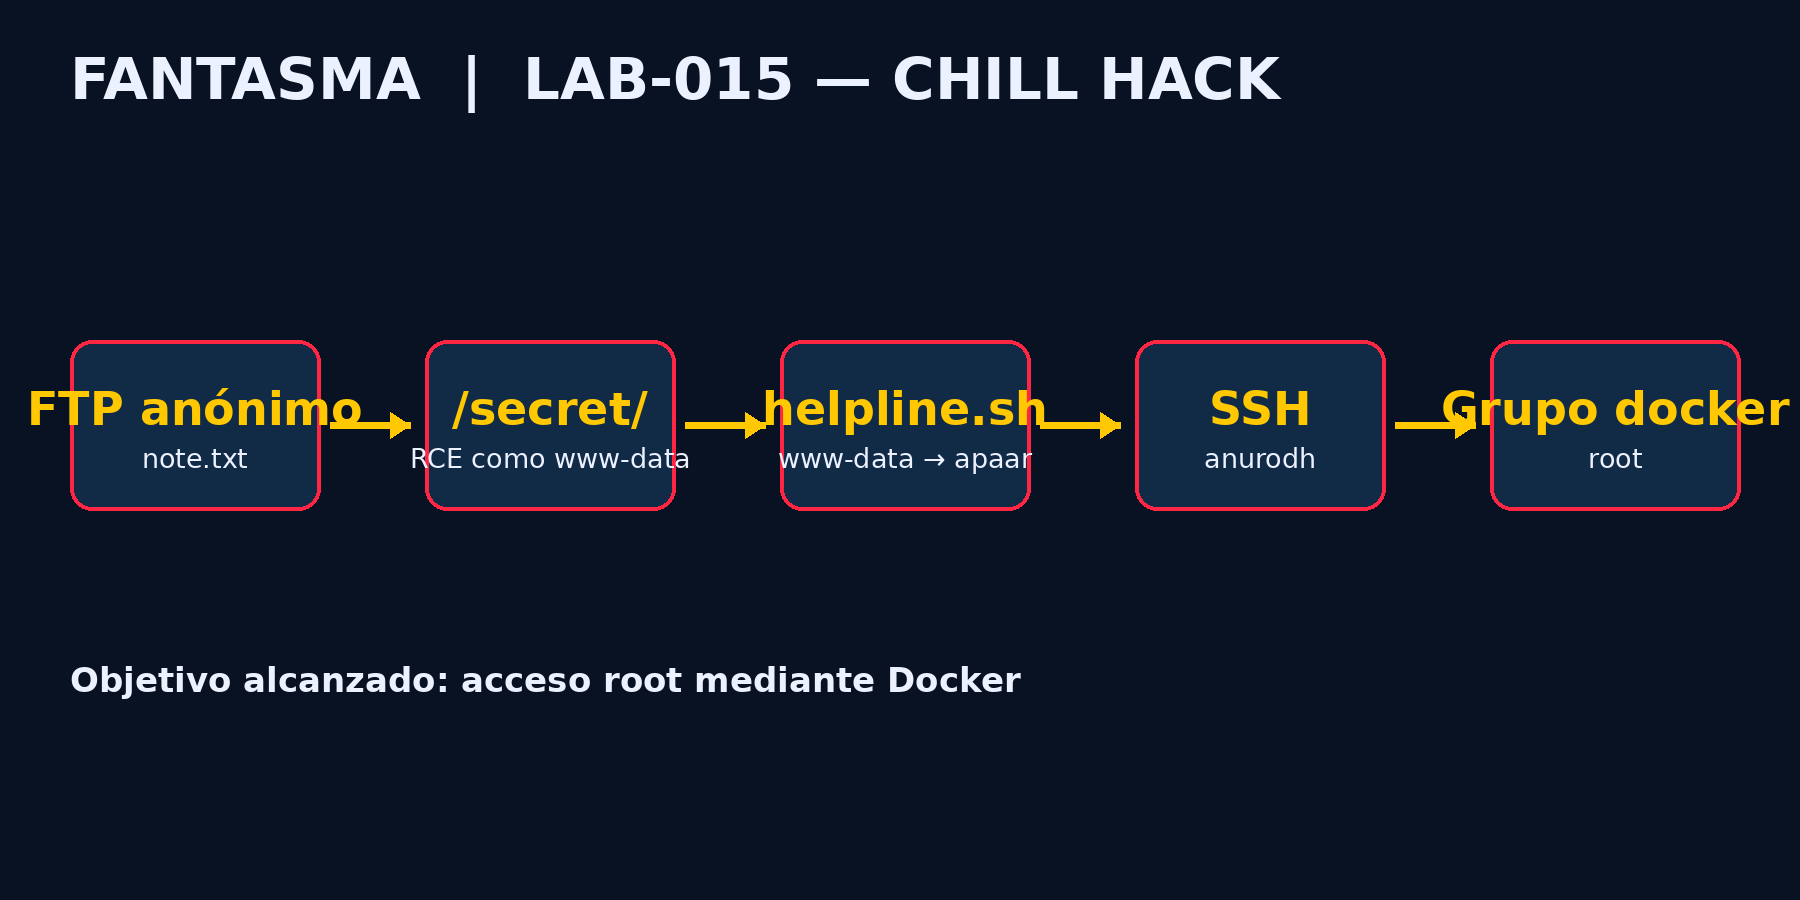
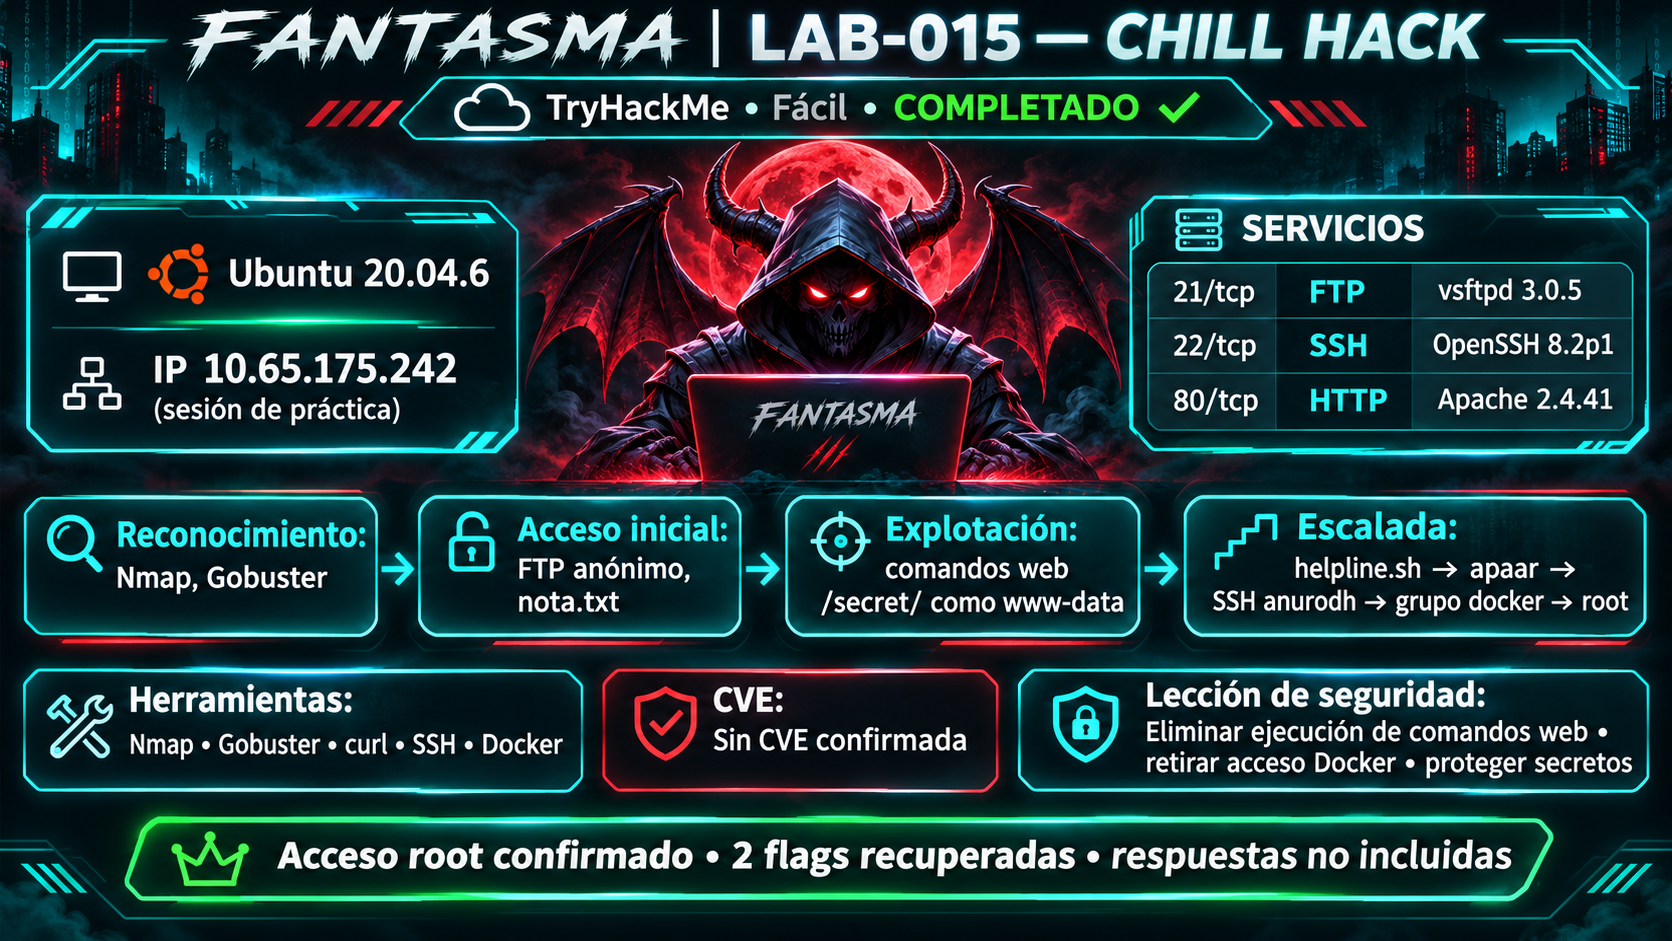
Update Chill Hack cover and report to FANTASMA protocol

diff --git a/01-Informes/Informe-Pentesting.md b/01-Informes/Informe-Pentesting.md
@@ -1,58 +1,71 @@
-# Informe de pentesting — Chill Hack
+# Informe técnico — LAB-015 Chill Hack
+
+## Identificación
+
+- Plataforma: TryHackMe
+- Dificultad: Fácil
+- Sistema operativo observado: Ubuntu 20.04.6 LTS
+- IP usada en esta sesión: `10.65.175.242`
+- Estado: acceso root y ambas banderas recuperados. No se verificó el envío de respuestas en TryHackMe.
+- CVE: no se confirmó una CVE aplicable
 
 ## Objetivo
 
-Completar la máquina Chill Hack de TryHackMe, identificar su superficie expuesta y obtener las banderas de usuario y root.
+Enumerar la superficie expuesta, obtener acceso inicial y escalar privilegios hasta root en la máquina Chill Hack.
 
 ## Reconocimiento
 
-Escaneo TCP de los 1.000 puertos más comunes contra `10.65.175.242`.
+Nmap detectó estos servicios:
 
 ```text
-21/tcp open ftp
-22/tcp open ssh
-80/tcp open http
+21/tcp open ftp vsftpd 3.0.5
+22/tcp open ssh OpenSSH 8.2p1 Ubuntu 4ubuntu0.13
+80/tcp open http Apache httpd 2.4.41 (Ubuntu)
 ```
 
-FTP permitió acceso anónimo y expuso `note.txt`. La nota menciona filtrado de cadenas introducidas en un comando. Gobuster identificó `/secret/`.
+Un escaneo posterior de los 1.000 puertos TCP más comunes confirmó esos tres puertos abiertos. FTP permitió inicio de sesión anónimo y expuso `note.txt`, cuya pista mencionaba el filtrado de cadenas introducidas en un comando.
 
-## Enumeración
+## Enumeración web
 
-La página `/secret/` recibe el parámetro `command` por POST. Se confirmó ejecución de comandos como `www-data` con `id` y `whoami`. El filtro bloquea tokens exactos como `cat`, `head`, `tail`, `ls`, `bash`, `sh`, `python`, `php`, `perl`, `rm`, `nc`, `more` y `less`.
+Gobuster encontró `/secret/`. La página contenía un formulario que enviaba el parámetro `command` mediante POST. Se comprobó la ejecución de comandos como `www-data` con `id`, `pwd` y `whoami`. El filtro de PHP compara tokens exactos contra una lista de bloqueo. Se observó que `ls` y `head` activaban el mensaje de rechazo, mientras `find` y `sed` funcionaron.
 
-La configuración de Apache reveló otro VirtualHost con `DocumentRoot /var/www/files` en el puerto 9001, inaccesible desde la red externa. En `index.php` se encontraron credenciales de MySQL para enumerar la base `webportal`.
+La exploración identificó `/home/apaar/local.txt`, el script `/home/apaar/.helpline.sh`, el código de una segunda aplicación en `/var/www/files` y credenciales MySQL en `index.php`. Se consultó la tabla `users`. Los valores de contraseña y los hashes se omiten de este informe.
+
+La configuración de Apache mostraba un VirtualHost con `DocumentRoot /var/www/files` en `127.0.0.1:9001`. Las solicitudes desde Parrot al puerto 9001 fueron rechazadas. No se considera un servicio externo accesible.
 
 ## Acceso inicial y escalada a apaar
 
-`sudo -l` como `www-data` mostró permiso sin contraseña para ejecutar `/home/apaar/.helpline.sh` como `apaar`. El script ejecuta directamente el texto introducido como mensaje. Se aprovechó con una entrada canalizada para ejecutar comandos como `apaar` y leer `/home/apaar/local.txt`.
+`sudo -l` como `www-data` mostró que podía ejecutar `/home/apaar/.helpline.sh` como `apaar` sin contraseña. El script lee un nombre y un mensaje, y luego ejecuta el mensaje directamente como comando. Se usó una entrada canalizada para ejecutar comandos como `apaar` y leer `local.txt`.
 
-## Acceso como anurodh y root
+## Acceso como anurodh y escalada a root
 
-Se inició sesión por SSH como `anurodh` con la contraseña recuperada durante la enumeración del laboratorio. `id` confirmó pertenencia al grupo `docker`. Se montó el sistema raíz del host dentro de un contenedor Alpine y se ejecutó `chroot` para obtener `uid=0(root)`.
+Se inició sesión por SSH como `anurodh`. `id` confirmó que la cuenta pertenecía al grupo `docker`. Se ejecutó un contenedor con el sistema raíz del host montado en `/mnt` y se usó `chroot` para obtener `uid=0(root)`.
 
 ```bash
 docker run -v /:/mnt --rm -it alpine chroot /mnt /bin/sh
 ```
 
-La bandera final se leyó desde `/root/proof.txt`.
+Se verificó `whoami` como `root` y se leyó `/root/proof.txt`. Los valores de ambas banderas se omiten. No se afirma que TryHackMe haya aceptado las respuestas.
 
 ## Vulnerabilidades verificadas
 
-- Ejecución de comandos del sistema desde una entrada web sin validación segura.
-- Lista de bloqueo de comandos que puede eludirse y no sustituye el uso de una lista permitida.
-- Script ejecutable con privilegios de otro usuario que ejecuta entrada controlada por el usuario.
-- Cuenta `anurodh` incluida en el grupo `docker`, equivalente a privilegios de root en esta configuración.
-- Credenciales de base de datos almacenadas en código fuente.
+- Ejecución de comandos del sistema desde un formulario web mediante `shell_exec`.
+- Filtro basado en lista de bloqueo de tokens exactos, insuficiente como control de seguridad.
+- Script ejecutado mediante sudo que ejecuta texto controlado por quien lo invoca.
+- Acceso de `anurodh` al grupo Docker, que permitió montar y cambiar la raíz del sistema anfitrión.
+- Credenciales de MySQL embebidas en el código PHP.
+
+No se asigna CVE porque no se verificó una vulnerabilidad con identificador CVE aplicable a esta cadena.
 
 ## Mitigaciones
 
-- Eliminar la ejecución de comandos del sistema desde formularios web. Si fuese imprescindible, usar funciones seguras, argumentos separados y una lista permitida estricta.
-- No ejecutar texto proporcionado por usuarios como código en scripts shell.
-- Limitar reglas `sudoers` a comandos y argumentos necesarios, con propiedad y permisos revisados.
-- No asignar el grupo `docker` a cuentas ordinarias. Tratar acceso al daemon como privilegio root.
-- Guardar secretos fuera del código fuente y rotar credenciales expuestas.
-- Restringir servicios internos a interfaces y redes necesarias.
+- Retirar la ejecución de comandos del sistema desde entradas web. Si existe una necesidad válida, usar una lista permitida estricta y APIs seguras con argumentos separados.
+- No ejecutar entrada de usuario como código shell en scripts.
+- Restringir sudoers al mínimo privilegio y revisar argumentos aceptados.
+- No añadir usuarios ordinarios al grupo Docker.
+- Sacar secretos del código fuente, restringir sus permisos y rotar los ya expuestos.
+- Limitar los servicios locales a las interfaces estrictamente necesarias.
 
 ## Conclusión
 
-La cadena combinó una aplicación web vulnerable, una regla `sudo` insegura y privilegios Docker. El acceso root quedó confirmado por `whoami` y la lectura de `/root/proof.txt`.
+La cadena explotó ejecución de comandos web, una llamada sudo insegura y privilegios Docker. El acceso root quedó confirmado. Se recuperaron las dos banderas del laboratorio y sus valores no se publican aquí.

diff --git a/README.md b/README.md
@@ -1,36 +1,60 @@
-# LAB-015 — Chill Hack
+![Portada oficial FANTASMA — LAB-015 Chill Hack](04-Imagenes/LAB-015-CHILL-HACK-Diagrama-Ataque.png)
 
-![Diagrama de ataque](04-Imagenes/LAB-015-CHILL-HACK-Diagrama-Ataque.png)
+# LAB-015 — CHILL HACK
 
 | Campo | Detalle |
 |---|---|
 | Plataforma | TryHackMe |
+| Máquina | Chill Hack |
 | Dificultad | Fácil |
-| Sistema | Ubuntu 20.04 |
-| IP de laboratorio | 10.65.175.242 (sesión de práctica, puede cambiar) |
-| Estado | Completado |
+| Estado | Completado en la máquina. Envío de respuestas a TryHackMe no verificado. |
+| Sistema operativo | Ubuntu 20.04.6 LTS |
+| IP observada | `10.65.175.242` durante esta sesión, puede cambiar |
+| CVE | No se verificó una CVE aplicable |
+| Banderas | User y Root recuperadas. Valores omitidos |
 
-## Objetivo
+## Descripción
 
-Obtener acceso inicial, capturar las banderas de usuario y root, y documentar las vulnerabilidades verificadas en Chill Hack.
+Chill Hack es un laboratorio de enumeración y escalada de privilegios. La cadena observada comenzó con FTP anónimo, siguió con ejecución de comandos en el formulario `/secret/` como `www-data`, abuso del script `helpline.sh` para ejecutar como `apaar` y acceso SSH como `anurodh`. La pertenencia de `anurodh` al grupo `docker` permitió obtener una shell root.
 
-## Cadena de ataque
+## Servicios identificados
 
-FTP anónimo y nota → enumeración web → ejecución remota de comandos como `www-data` → abuso del script `helpline.sh` para ejecutar como `apaar` → credencial SSH de `anurodh` → grupo Docker → shell root.
+| Puerto | Servicio | Versión observada |
+|---|---|---|
+| 21/tcp | FTP | vsftpd 3.0.5 |
+| 22/tcp | SSH | OpenSSH 8.2p1 Ubuntu 4ubuntu0.13 |
+| 80/tcp | HTTP | Apache 2.4.41 Ubuntu |
 
-## Herramientas
+Apache también tenía un VirtualHost configurado para `127.0.0.1:9001` según el archivo de configuración inspeccionado. No se confirmó acceso externo a ese puerto.
 
-Nmap, curl, Gobuster, SSH y Docker.
+## Metodología resumida
+
+1. Reconocimiento con Nmap en los puertos observados.
+2. Enumeración de FTP anónimo y lectura de `note.txt`.
+3. Enumeración web con Gobuster, que encontró `/secret/`.
+4. Explotación del parámetro POST `command` para ejecutar comandos como `www-data`.
+5. Escalada a `apaar` mediante la regla sudo sin contraseña y la ejecución insegura de entrada en `.helpline.sh`.
+6. Acceso SSH como `anurodh` y escalada a root abusando del grupo Docker.
+
+## Herramientas y comandos usados
+
+Nmap, Gobuster, curl, SSH, Docker, `find`, `grep`, `sed`, `sudo`, `printf`, `id` y `whoami`.
+
+Comando de escalada final observado:
+
+```bash
+docker run -v /:/mnt --rm -it alpine chroot /mnt /bin/sh
+```
 
 ## Documentación
 
-- [Informe de pentesting](01-Informes/Informe-Pentesting.md)
+- [Informe técnico](01-Informes/Informe-Pentesting.md)
 - [Sala TryHackMe](https://tryhackme.com/room/chillhack)
 
-## Resultado
+## Recomendaciones
 
-Se obtuvo acceso `root` mediante pertenencia de `anurodh` al grupo `docker`. Las banderas User y Root se recuperaron durante la sesión.
+Eliminar la ejecución de comandos desde entradas web, evitar ejecutar texto controlado por usuarios en scripts shell, restringir reglas sudo, retirar cuentas ordinarias del grupo Docker y guardar secretos fuera del código fuente.
 
 ## Autor
 
-FANTASMA — fantasmakm4
+FANTASMA — [fantasmakm4](https://github.com/fantasmakm4)
